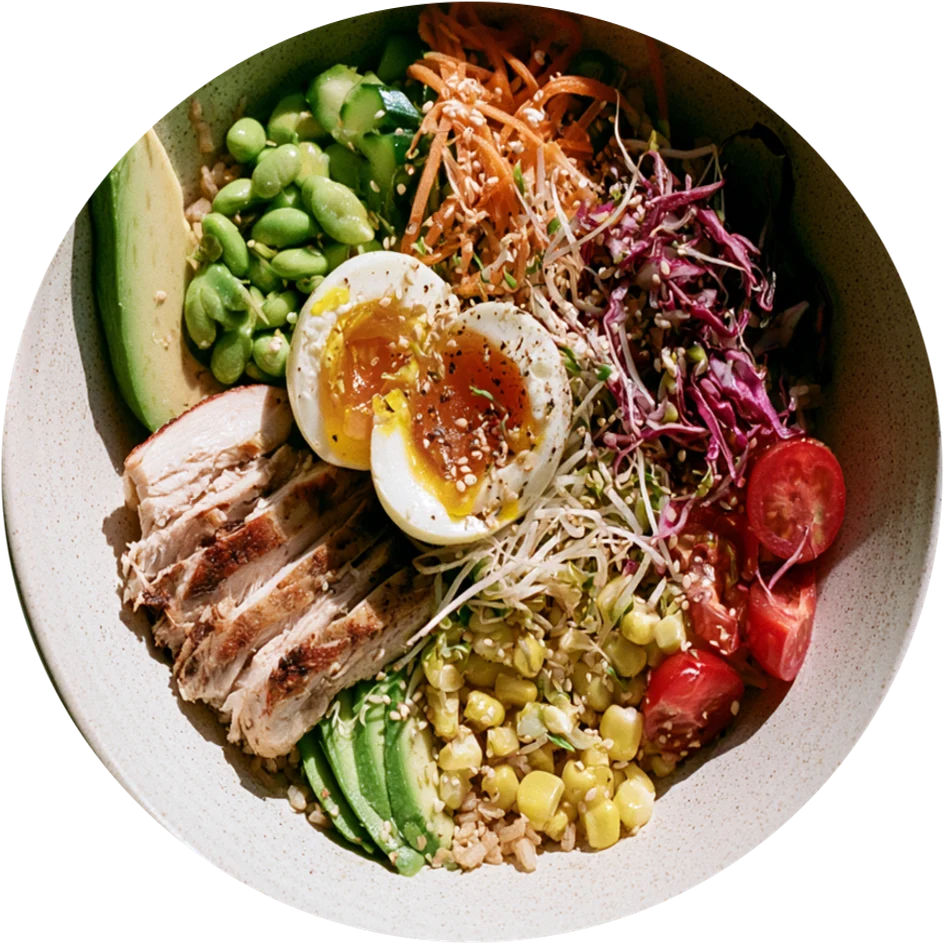
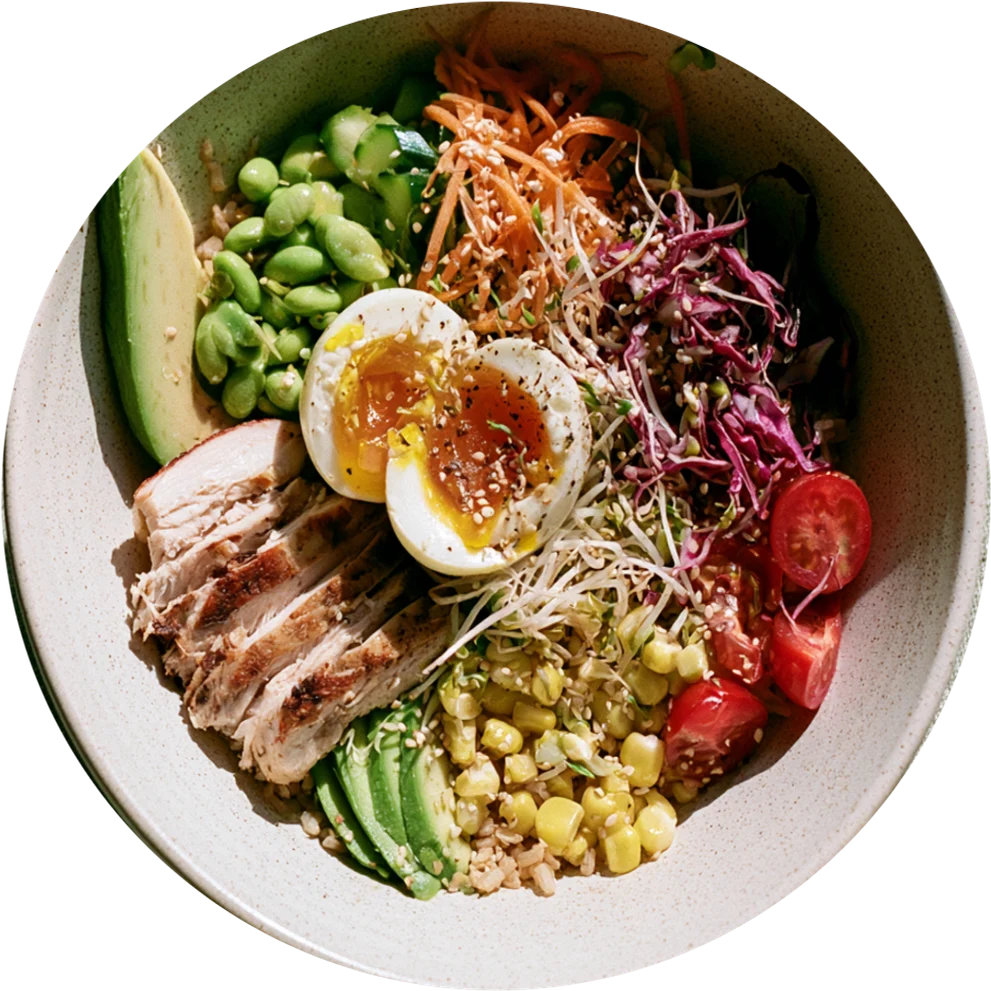
The poke bowl cut-out: mask the whole bowl, not most of it
You could see the fault the moment the cut-out was composited on a contrasting
background instead of on the page: the mask ran THROUGH the bowl at the top and
the right, slicing the cabbage, carrot and tomatoes flat against the edge with no
ceramic rim behind them. It read as a circular crop of a photograph rather than a
plate lifted out of one - which is exactly the difference Ana was pointing at
between this and the bok choy bowl.

Cause: I measured the rim off a rendered grid by eye and came out 34px short
vertically and 16px short on each side. Fixed by measuring instead of estimating
- flooding the sage surface from the frame edge and taking the bounding box of
what it cannot reach - which gives cx 0.519, cy 0.314, rx 0.349, ry 0.313 of the
frame width. The bowl is complete all the way round now.

Two things this leaves behind for the next cut-out:

- COMPOSITE ON MAGENTA, NOT ON THE PAGE COLOUR. A cut-out checked against cream
  hides both failure modes: background left inside the mask is cream-ish and food
  sliced at the edge just looks like the edge. Against a colour that appears
  nowhere in the photograph, both are obvious at a glance.
- The surface test needed loosening to g-r >= -1. On a sunlit shot the sage linen
  is barely green enough to clear the old g-r >= 1, so the flood stopped early
  and the "bowl" it inferred swallowed a strip of background.

diff --git a/src/app/sage/today/TodayClient.tsx b/src/app/sage/today/TodayClient.tsx
@@ -144,8 +144,8 @@ export function TodayClient({
               <Image
                 src={plate}
                 alt={featured.name}
-                width={943}
-                height={943}
+                width={1000}
+                height={1000}
                 priority
                 sizes="(max-width: 1024px) 100vw, 42vw"
                 className={
